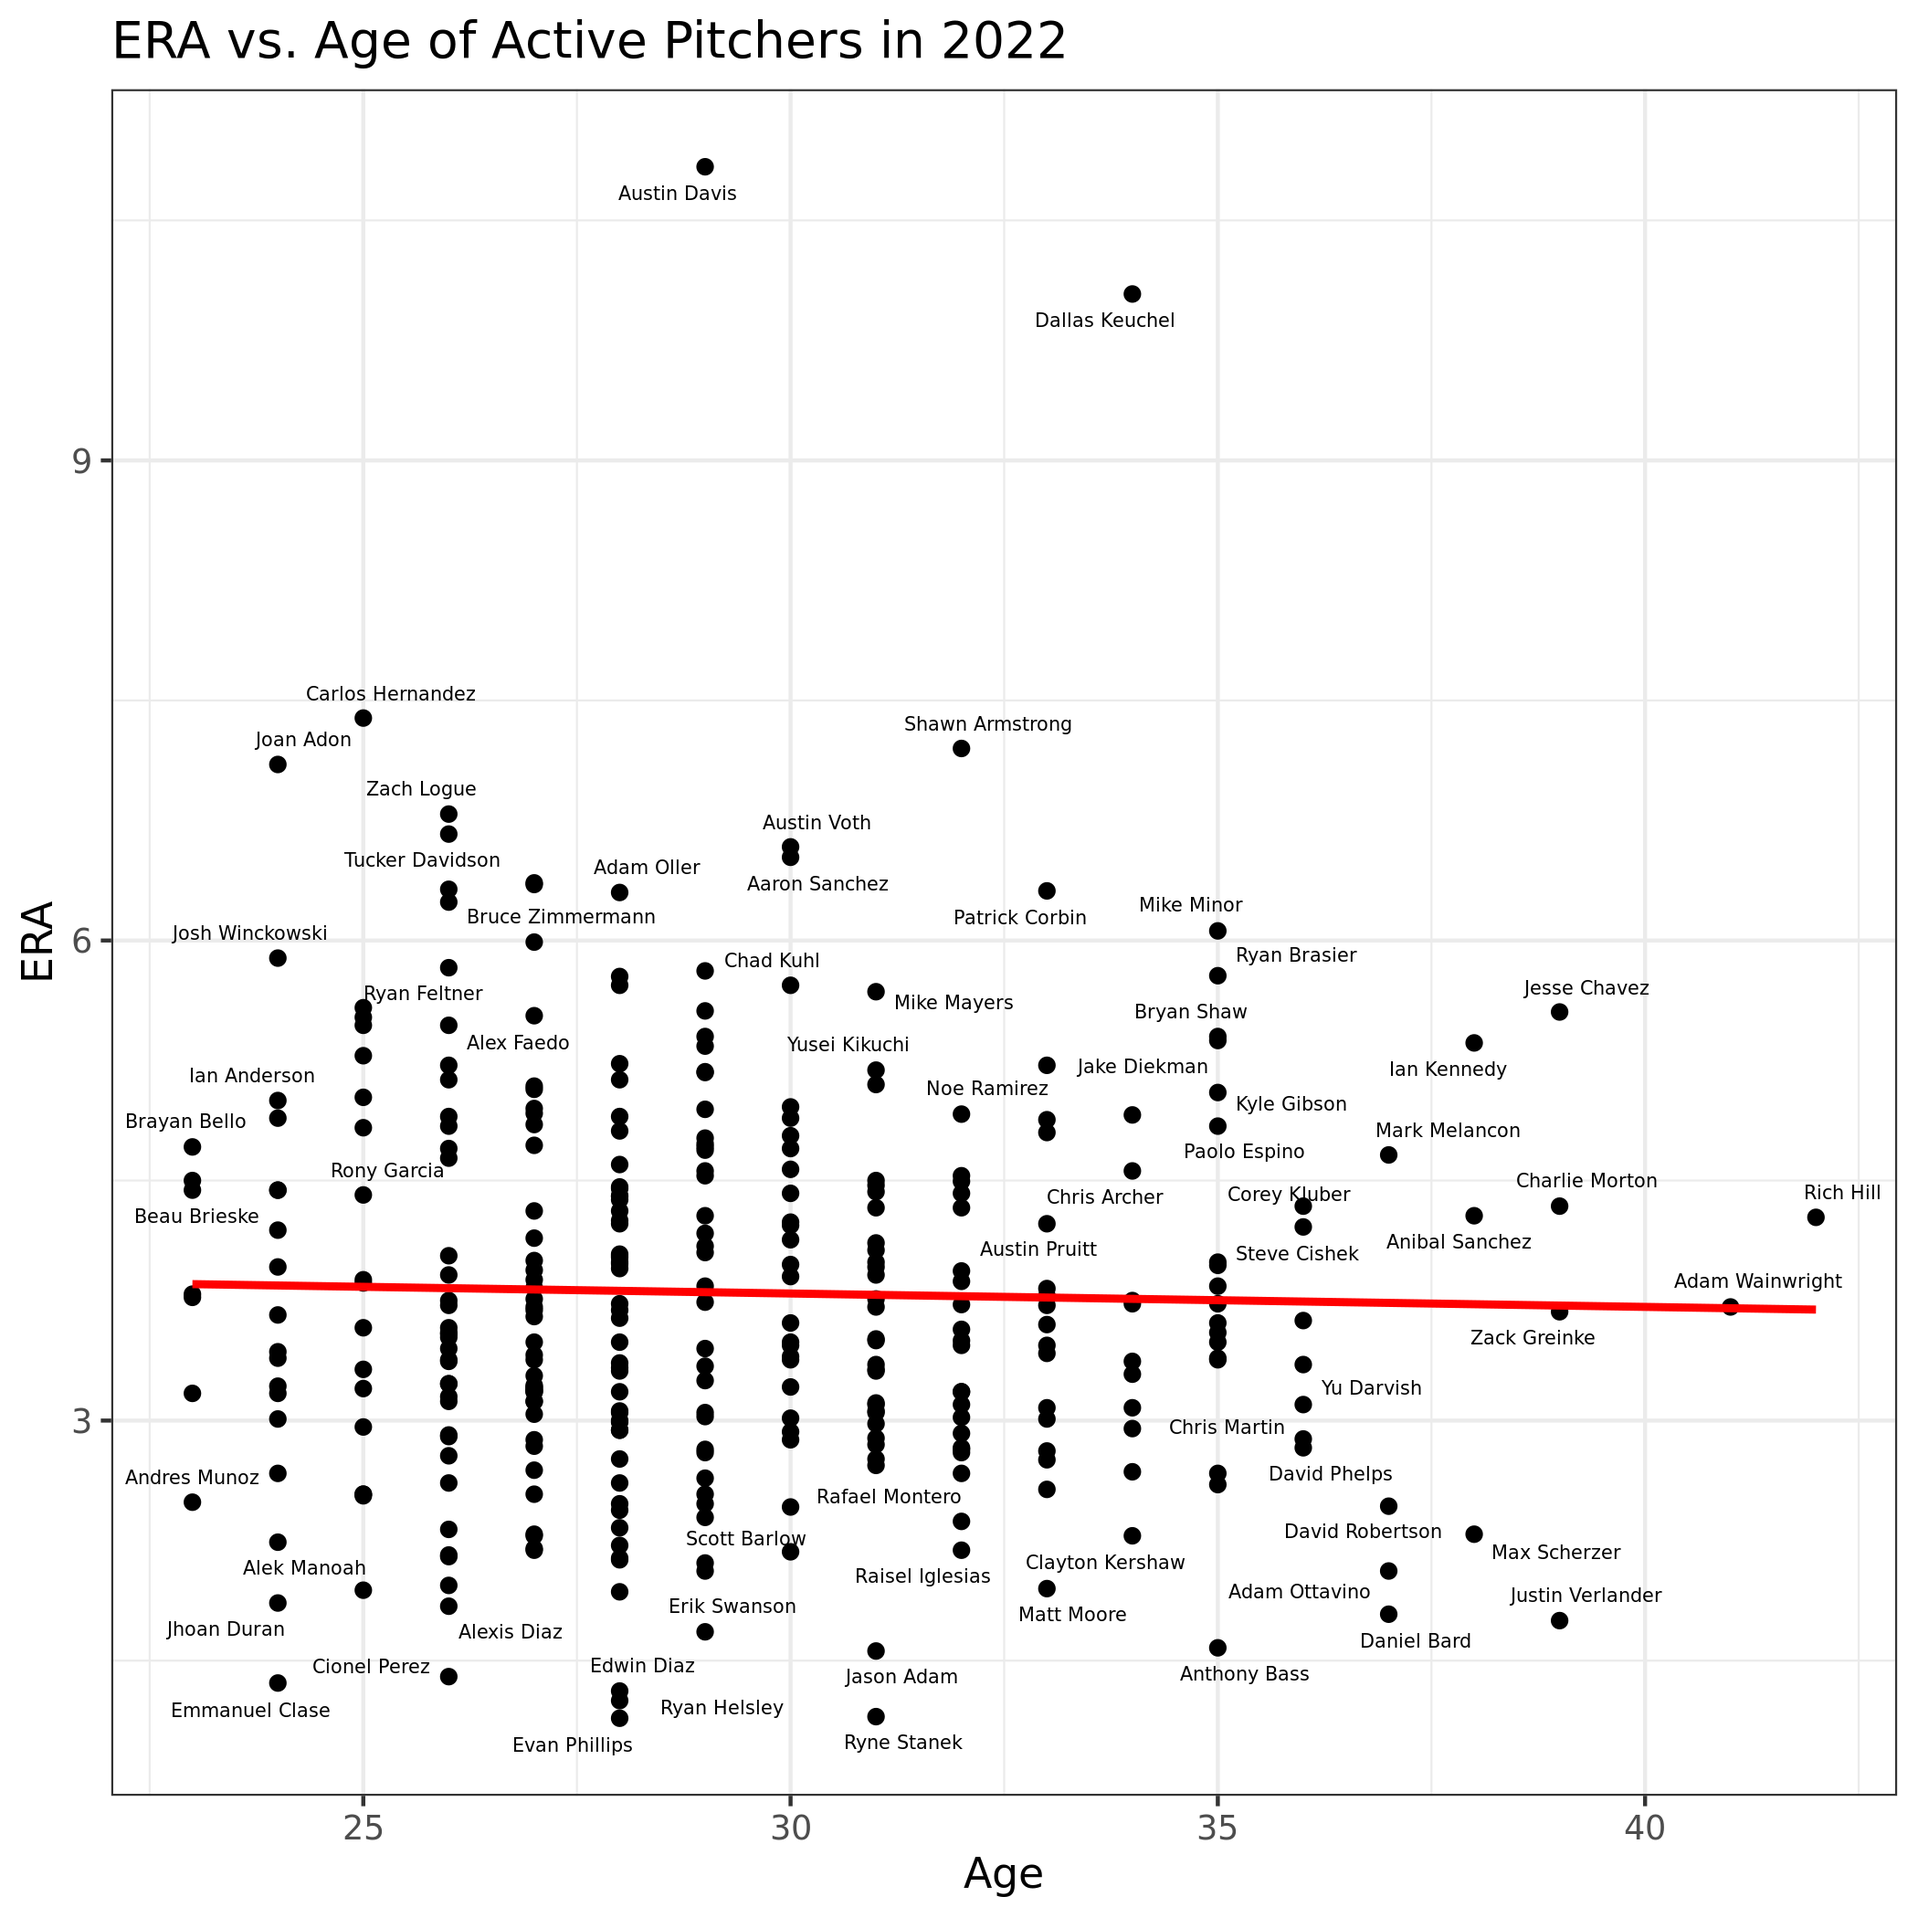
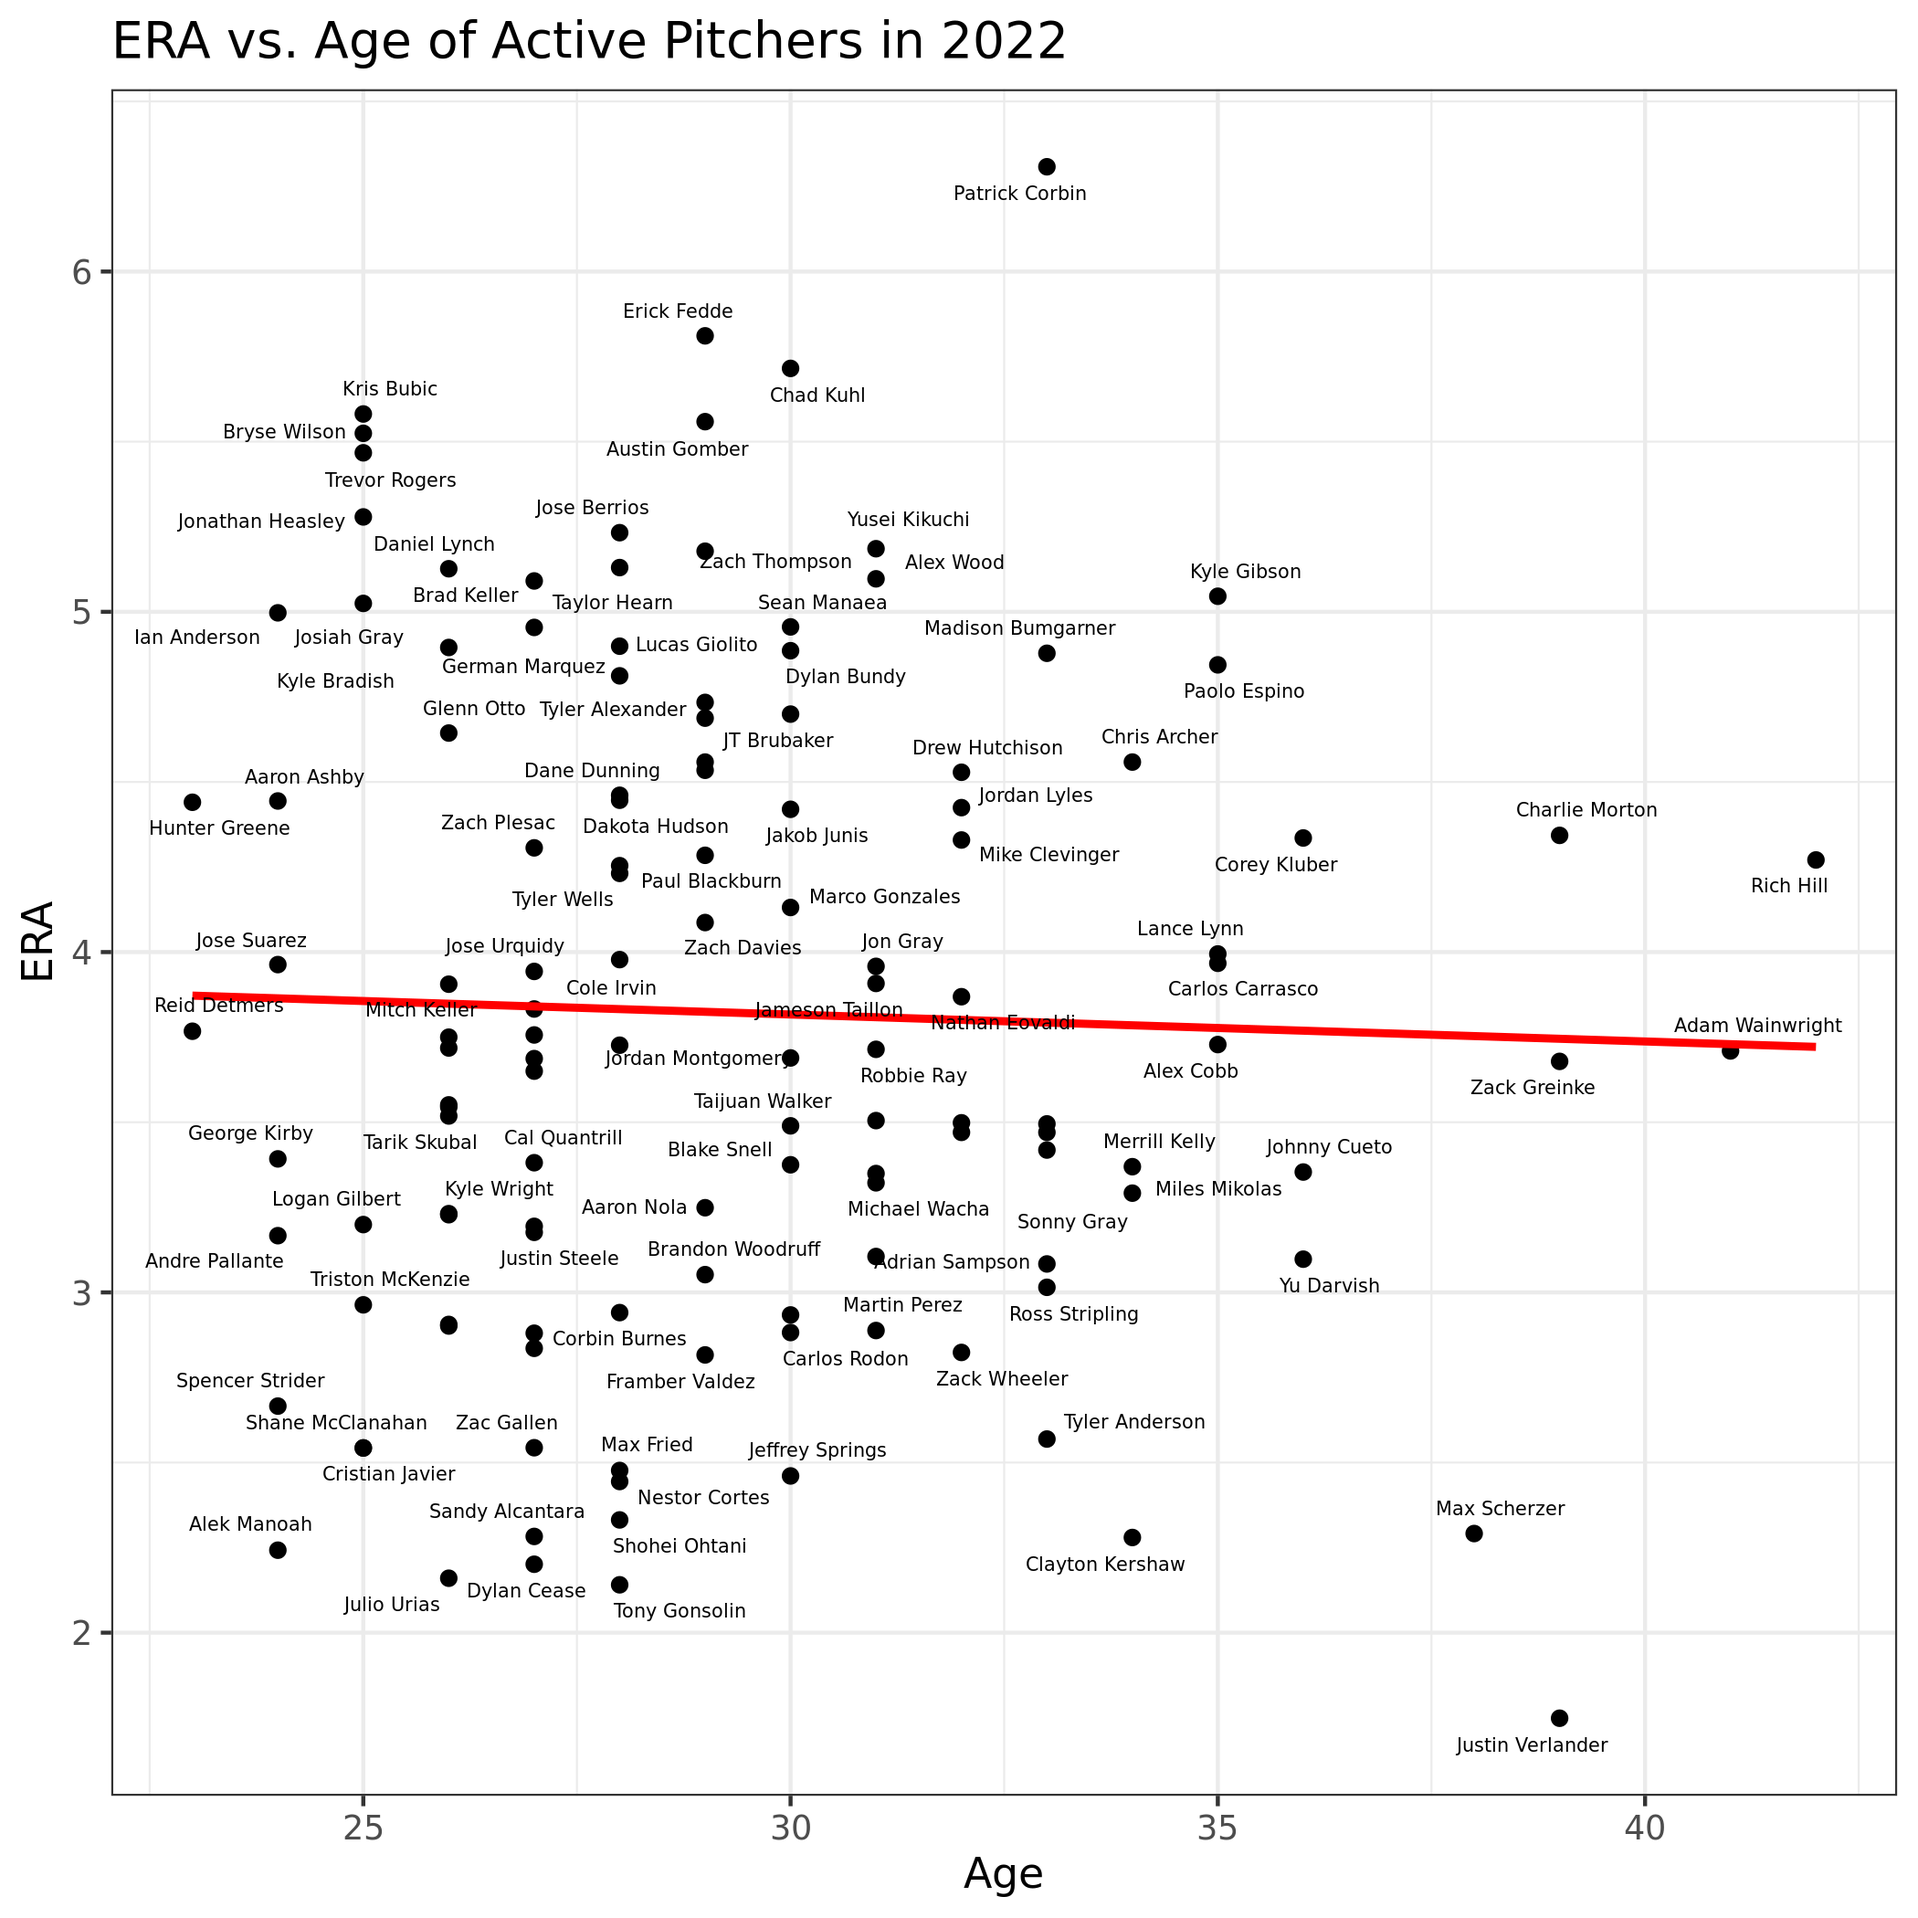
Fix incorrect ERA calculation, some pitchers being overcounted

diff --git a/README.md b/README.md
@@ -1,2 +1,9 @@
-# mlb-data-analysis
-Performing analysis on dataset of active MLB players in R
+# MLB Data Analysis
+
+Project intended to familiarize myself with data analysis in R. The data used is from the [Lahman database](https://cran.r-project.org/web/packages/Lahman/Lahman.pdf), which contains a wide variety of statistics for Major League Baseball (MLB).
+
+## `era_vs_age.R`
+
+This script creates a scatter plot of the earned run average (ERA) of MLB pitchers against their age in the 2022 season. The data utilizes the `Pitching` table left-joined with the `People` table in the database to get the age of the pitchers.
+
+To be qualified for the plot, a pitcher must have thrown at least 100 innings in the season and played in a minimum of 20 games. This is to ensure that the pitcher had a significant amount of playing time in the season (i.e. ignore position players that have pitched, pitchers that were injured, etc.).
